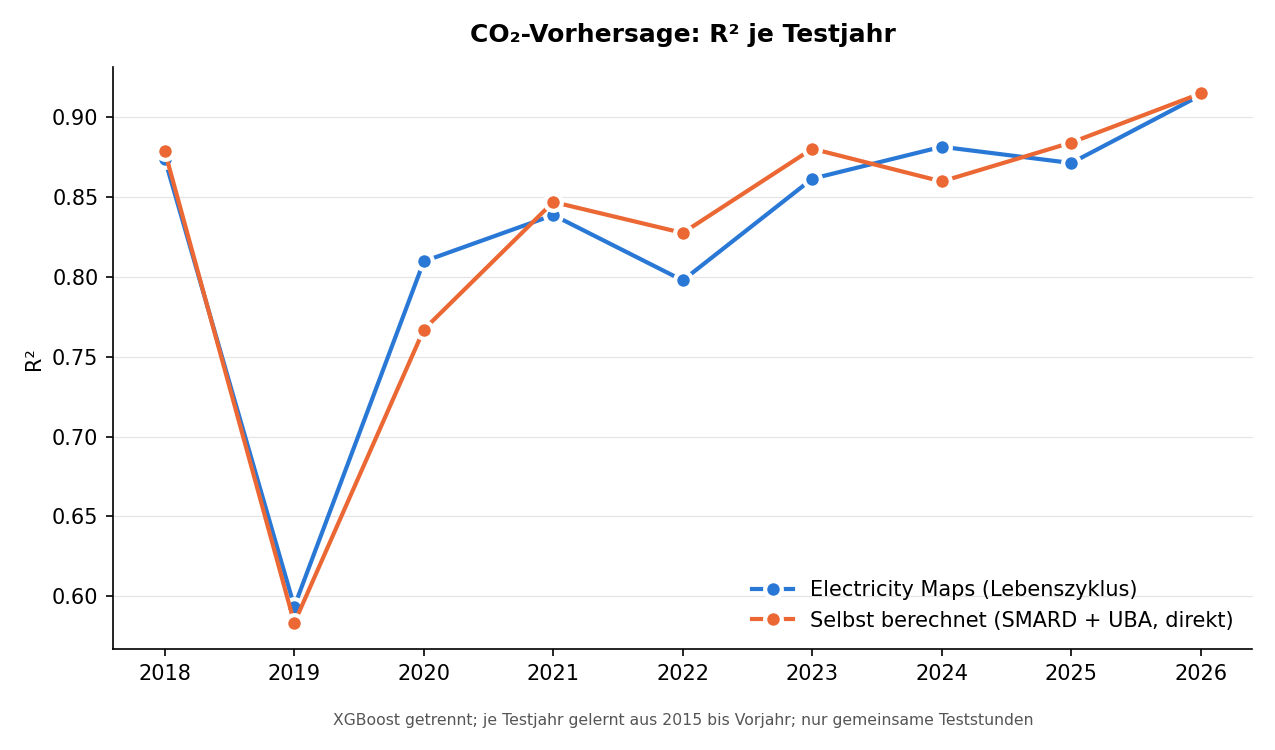
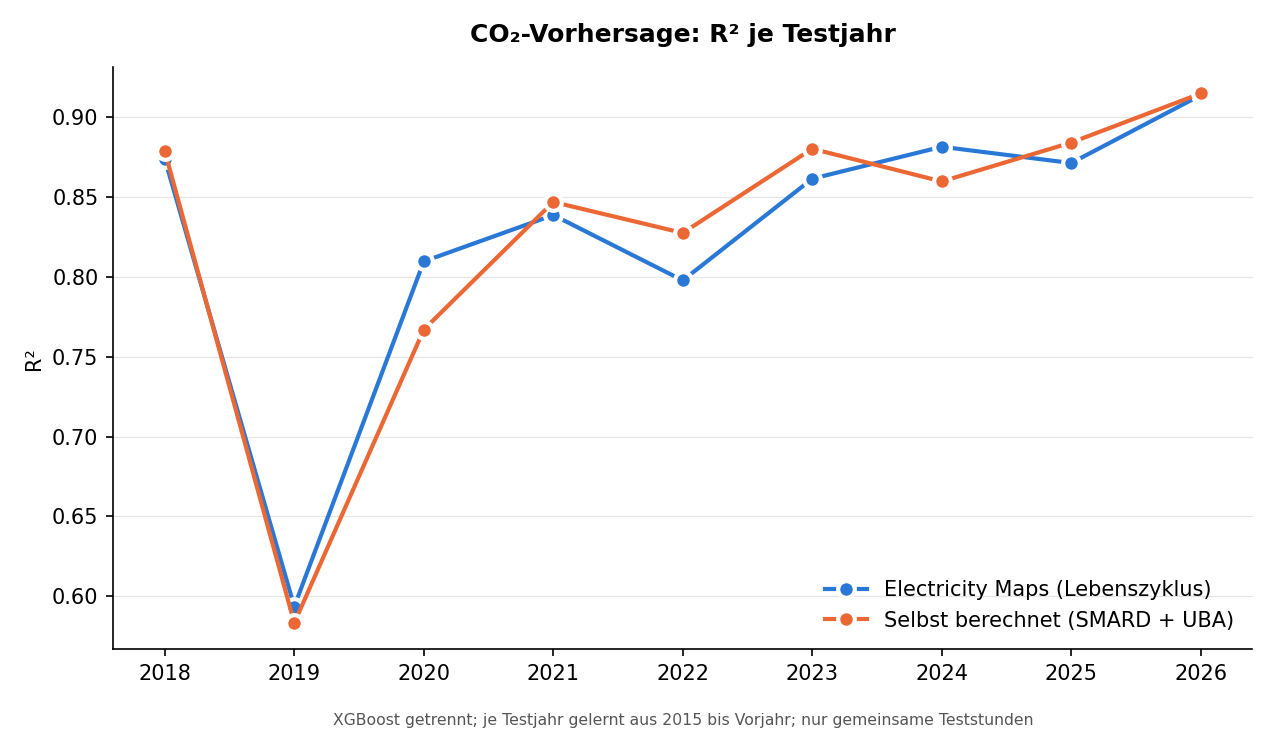
Shorten self-computed CO2 legend label

Changed region(s): [[0.5812, 0.7667, 0.9788, 0.8587]]

diff --git a/scripts/plot_co2_target_comparison.py b/scripts/plot_co2_target_comparison.py
@@ -13,7 +13,7 @@ ROOT = Path(__file__).resolve().parents[1]
 OUT = ROOT / 'reports/co2_target_comparison_expanding_v1'
 TARGET = 'target_co2_gco2eq_kwh'
 RUNS = {'Electricity Maps (Lebenszyklus)': ('xgboost_expanding_v1', '#2a78d6'),
-        'Selbst berechnet (SMARD + UBA, direkt)': ('xgboost_selfco2_separate_expanding_v1', '#eb6834')}
+        'Selbst berechnet (SMARD + UBA)': ('xgboost_selfco2_separate_expanding_v1', '#eb6834')}
 NOTE = 'XGBoost getrennt; je Testjahr gelernt aus 2015 bis Vorjahr; nur gemeinsame Teststunden'
 
 
